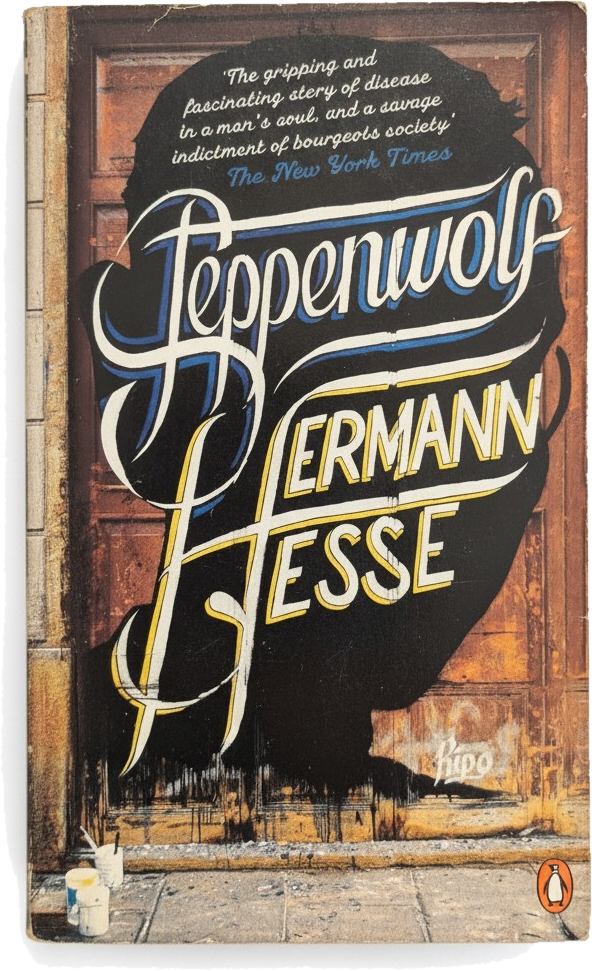
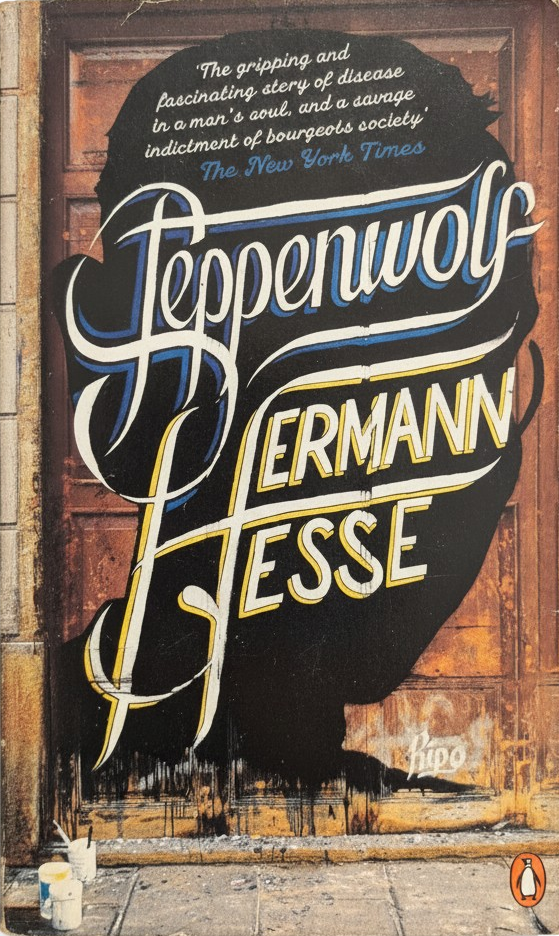
Crop book cut-outs to their straight edges so Gemini's shadows stay outside
Rows and columns are tested for colour or darkness against the white backdrop, and the
book is cropped to that rectangle. The prompt now asks for flat lighting with no shadow.

diff --git a/gemini-cutouts.py b/gemini-cutouts.py
@@ -1,5 +1,5 @@
 #!/usr/bin/env python3
-"""Turn hand-held photos of books into clean cut-outs with Gemini, then key the white away.
+"""Turn hand-held photos of books into clean cut-outs with Gemini, then crop to the book's edges.
 
   GEMINI_API_KEY=... python3 gemini-cutouts.py photos/ manifest.json
 
@@ -18,10 +18,10 @@ photos = pathlib.Path(sys.argv[1]); manifest = json.loads(pathlib.Path(sys.argv[
 PROMPTS = {
   'front': ("Edit this photo: remove the background and the hand completely and keep only the paperback book. "
             "Show the whole front cover flat-on and straightened, filling the frame, reconstructing any part hidden by the fingers. "
-            "Keep the cover's real artwork, text and wear exactly as they are; do not redesign anything. Plain pure white background."),
+            "Keep the cover's real artwork, text and wear exactly as they are; do not redesign anything. Flat, even lighting with no shadow anywhere on or around the book. Plain pure white background."),
   'spine': ("Edit this photo: remove the background and the hand completely and keep only the paperback book's spine. "
             "Show the whole spine flat-on and perfectly vertical, filling the frame top to bottom, reconstructing any part hidden by the fingers. "
-            "Keep the spine's real text, colours and wear exactly as they are; do not redesign anything. Plain pure white background."),
+            "Keep the spine's real text, colours and wear exactly as they are; do not redesign anything. Flat, even lighting with no shadow anywhere. Plain pure white background."),
 }
 
 def prep(path):                      # phone photos are huge; 1600px is plenty for the model
@@ -43,26 +43,23 @@ def generate(path, kind):
             if attempt == 2: raise
             time.sleep(4 * (attempt + 1))
 
-def key_white(im):                  # the plain backdrop → transparent: flood from the corners, whatever shade it came back
-    from PIL import ImageDraw
-    im = im.convert('RGB'); W, H = im.size
-    work = im.copy(); KEYC = (255, 0, 255)
-    for seed in [(2, 2), (W-3, 2), (2, H-3), (W-3, H-3), (W//2, 2), (W//2, H-3), (2, H//2), (W-3, H//2)]:
-        r, g, b = work.getpixel(seed)
-        if max(r, g, b) - min(r, g, b) < 30 and (r + g + b) > 360 and work.getpixel(seed) != KEYC: ImageDraw.floodfill(work, seed, KEYC, thresh=34)
-    wp = work.load(); a = Image.new('L', (W, H), 255); ap = a.load()
-    for y in range(H):
-        for x in range(W):
-            if wp[x, y] == KEYC: ap[x, y] = 0
-    a = a.filter(ImageFilter.MinFilter(3)).filter(ImageFilter.GaussianBlur(0.7))
-    out = im.convert('RGBA'); out.putalpha(a)
-    return out.crop(a.point(lambda v: 255 if v > 10 else 0).getbbox())
+def trim_rect(im, frac=0.5):
+    """Crop to the book's rectangle: rows and columns where most pixels are clearly not the
+    white backdrop or its soft shadow. A straight crop leaves any shadow outside."""
+    rgb = im.convert('RGB'); W, H = rgb.size; px = rgb.load()
+    def strong(x, y):
+        r, g, b = px[x, y]; mx, mn = max(r, g, b), min(r, g, b)
+        return (mx < 205) or (mx - mn > 12)          # darker than a soft shadow, or has any colour (shadows are neutral)
+    cols = [sum(1 for y in range(0, H, 2) if strong(x, y)) for x in range(W)]
+    rows = [sum(1 for x in range(0, W, 2) if strong(x, y)) for y in range(H)]
+    cx = [x for x, c in enumerate(cols) if c >= max(cols) * frac]; ry = [y for y, c in enumerate(rows) if c >= max(rows) * frac]
+    return rgb.crop((min(cx) + 2, min(ry) + 2, max(cx) - 1, max(ry) - 1)).convert('RGBA')
 
 def run(item):
     name, meta = item; kind, slug = meta['kind'], meta['slug']
     png = generate(photos / name, kind)
     import io; im = Image.open(io.BytesIO(png))
-    cut = key_white(im)
+    cut = trim_rect(im)
     dest = ROOT / ('covers' if kind == 'front' else 'spines') / f'{slug}.png'; cut.save(dest)
     return f"{slug:<28} {kind:<6} {cut.size[0]}x{cut.size[1]}  → {dest.relative_to(ROOT)}"
 
